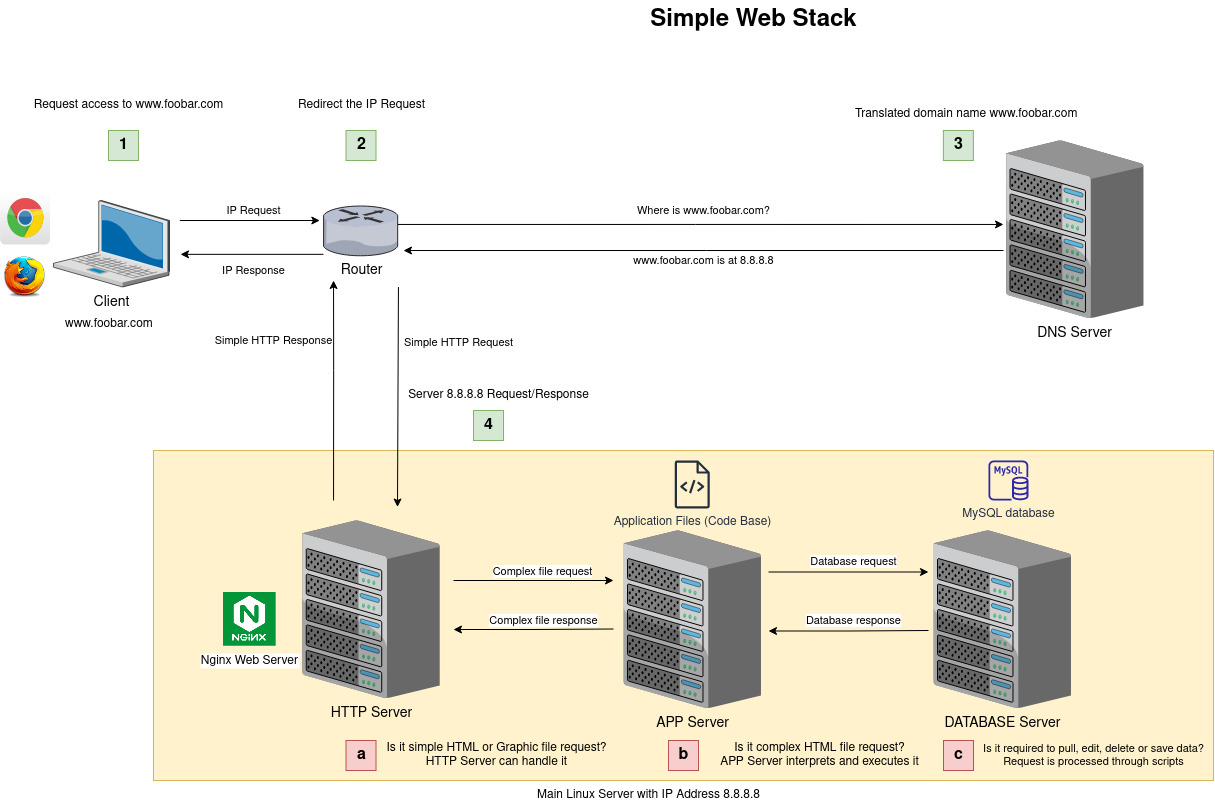
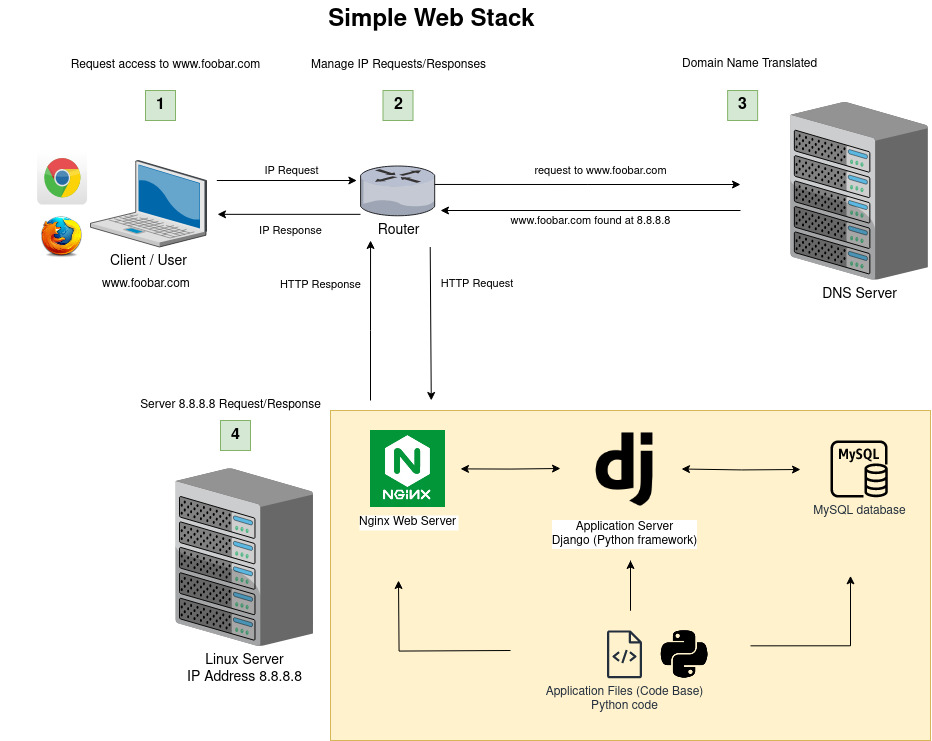
[0] Simple web stack. Update diagram

diff --git a/web_infrastructure_design/0-simple_web_stack.md b/web_infrastructure_design/0-simple_web_stack.md
@@ -1,5 +1,15 @@
 # 0. Simple web stack
 
+## Table of contents
+
+  * [Introduction](#introduction)
+    * [What is a Technology Stack?](#what-is-a-technology-stack)
+    * [Popular Technology Stacks](#popular-technology-stacks)
+    * [The Four Layers of a LAMP Stack](#the-four-layers-of-a-lamp-stack)
+  * [Simple web stack](#simple-web-stack)
+      * [Specifics about this infrastructure](#specifics-about-this-infrastructure)
+      * [Issues about this infrastructure](#issues-about-this-infrastructure)
+
 ## Introduction
 
 ###  What is a Technology Stack?
@@ -16,36 +26,40 @@ The structure of any good hamburger stays the same, no matter what `ingredients`
 
 ### Popular Technology Stacks
 Some of the more popular technology stacks are shown below:
-  <a align="center" href="https://holbertonschool.uy/">
+<div align="center">
+  <a href="https://holbertonschool.uy/">
     <img src="https://ddi-dev.com/uploads/media/news/0001/02/66911e46d98df8f6b13b1d0dee4b6f7d8ae18168.png" alt="tech_stacks">
   </a>
 
 __Source__: [https://ddi-dev.com/blog/](https://ddi-dev.com/blog/programming/how-choose-technology-stack-web-application-development/)
-
+</div>
 
 ### The Four Layers of a LAMP Stack
 
 Linux based web servers consist of four software components.
 
 - __Linux__: The `operating system (OS)` is the first one. All other layers run on top of this layer.
-- __Apache__: The second layer consists of web server software, typically `Apache Web Server` doing functions like handling incoming requests, serving web pages, managing connections and sessions and logging and monitoring.
+- __Apache/Nginx__: The second layer consists of web server software, typically `Apache Web Server` doing functions like handling incoming requests, serving web pages, managing connections and sessions and logging and monitoring.
 - __MySQL__: Is the third layer where databases stand. MySQL stores and retrieves data. MySQL usually sits on top of the Linux layer alongside Apache/layer 2.
-- __PHP__: Sitting on the top is the fourth and final layer. The scripting layer consists of PHP and/or other similar web programming languages. Websites and Web Applications run within this layer.
+- __PHP/Python__: Sitting on the top is the fourth and final layer. The scripting layer consists of PHP and/or other similar web programming languages. Websites and Web Applications run within this layer.
 
-  <a align="center" href="https://holbertonschool.uy/">
+<div align="center">
+  <a href="https://holbertonschool.uy/">
     <img src="https://res.cloudinary.com/lwgatsby/f_auto,c_scale,w_343/www/uploads/2018/02/kb-lamp-stack-1.jpg" alt="lamp_layers">
   </a>
 
 __Source__: [https://www.liquidweb.com/](https://www.liquidweb.com/kb/what-is-a-lamp-stack/)
+</div>
 
 ## Simple web stack
 A lot of websites are powered by simple web infrastructure, a lot of time it is composed of a single server with a [LAMP stack](https://en.wikipedia.org/wiki/LAMP_%28software_bundle%29)
 
 The following is a server web infrastructure that hosts the website that is reachable via `www.foobar.com`.
-
-  <a align="center" href="https://holbertonschool.uy/">
+<div align="center">
+  <a href="https://holbertonschool.uy/">
     <img src="0-simple_web_stack.jpg" alt="simple_web_stack">
   </a>
+</div>
 
 ### Specifics about this infrastructure
 
